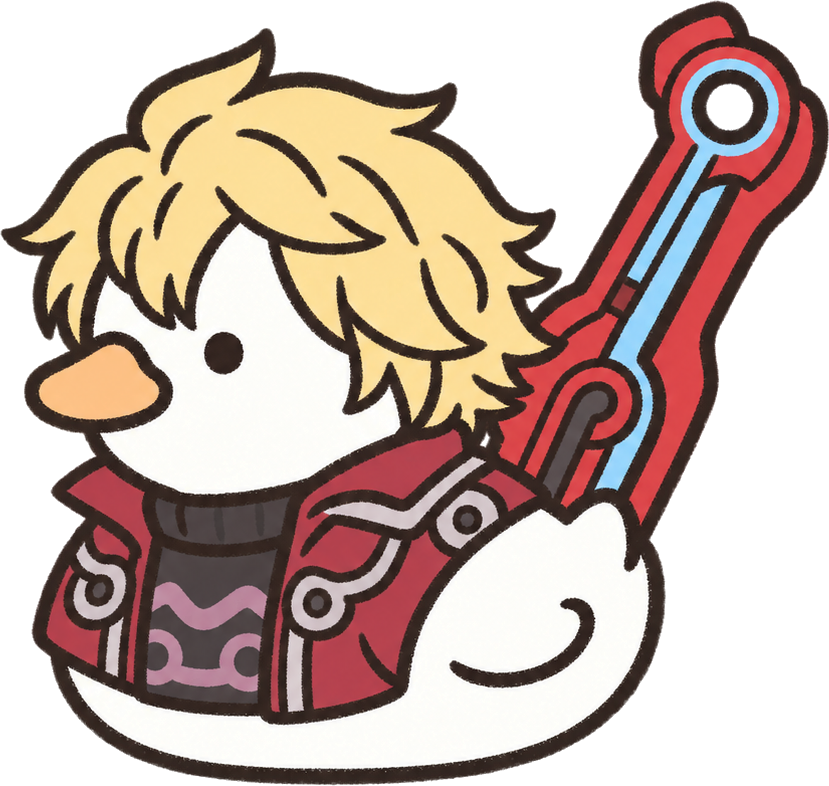
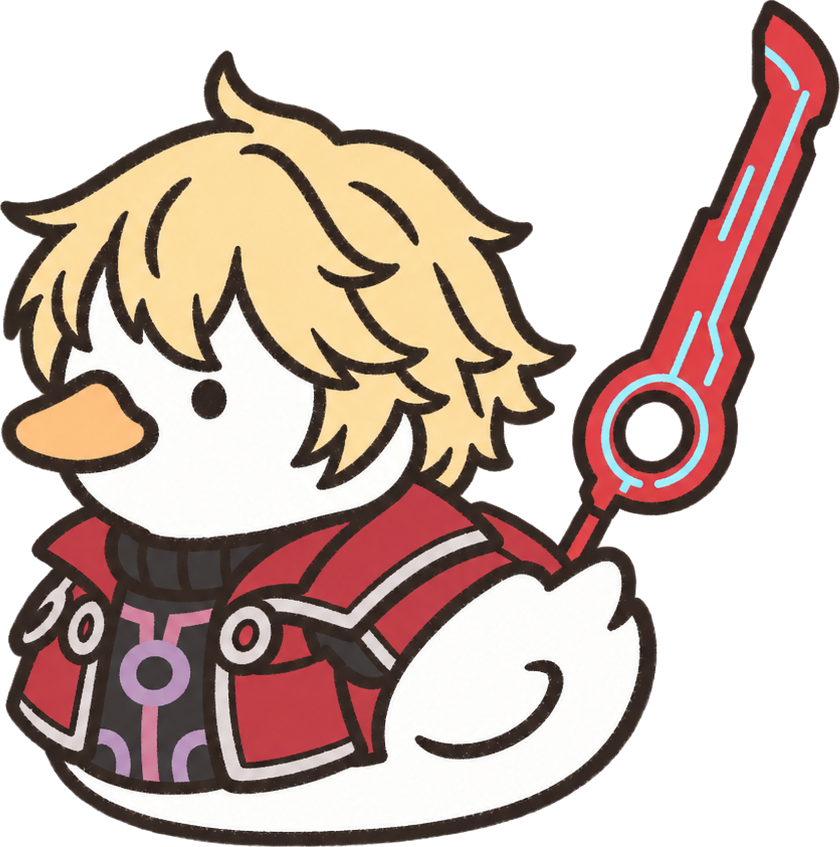
Eight ducks redrawn, Randy Marsh in Talon's place, and steadier pomodoro boxes on phones
Monokuma wears his real face, Denji's chainsaw points forward, Kid lost his guns, Kazuma
and EVE their swords, Nagisa's dango are pastel with line eyes, Shulk's Monado is the real
one. SSW Talon was too hard for the style, so Randy Marsh took his place. The pomodoro
number boxes are only redrawn when a number changes and no longer select their text on a
tap, which made phone screens jump about.

diff --git a/web/app.js b/web/app.js
@@ -875,6 +875,7 @@
       <div class="progress-text"><span>${mins} of ${d.goal} min today</span><span>${right}</span></div>`;
   }
 
+  let pomoMarkup = ''; // the pomodoro boxes as last drawn
   function renderPlantControls() {
     const t = S.timer;
     $('#idle-controls').hidden = !!t;
@@ -891,12 +892,15 @@
       if (S.pick.mode === 'pomo' && !document.activeElement?.matches('#pomo-pick input')) {
         const p = S.pick.pomo;
         // the number can be typed too, for a big jump (95 minutes is a lot of taps)
-        $('#pomo-pick').innerHTML = [['focus', 'Focus', 'min'], ['brk', 'Break', 'min'], ['rounds', 'Rounds', '']].map(([k, label, unit]) => `
+        const html = [['focus', 'Focus', 'min'], ['brk', 'Break', 'min'], ['rounds', 'Rounds', '']].map(([k, label, unit]) => `
           <div class="stepper"><span class="lbl">${label}</span>
             <button type="button" data-pomo="${k}" data-step="-1" aria-label="Less ${label.toLowerCase()}"${p[k] <= POMO_LIMITS[k][0] ? ' disabled' : ''}>−</button>
             <label class="val"><input type="text" inputmode="numeric" pattern="[0-9]*" maxlength="3" enterkeyhint="done" data-pomo-in="${k}" value="${p[k]}"
               aria-label="${label}${unit ? ' in minutes' : ''}, ${POMO_LIMITS[k][0]} to ${POMO_LIMITS[k][1]}">${unit ? `<small>${unit}</small>` : ''}</label>
             <button type="button" data-pomo="${k}" data-step="1" aria-label="More ${label.toLowerCase()}"${p[k] >= POMO_LIMITS[k][1] ? ' disabled' : ''}>+</button></div>`).join('');
+        // only redrawn when something changed: a redraw swaps the boxes for new ones, and a finger
+        // just landing on one would lose it (on a phone: the keyboard flashing open and shut)
+        if (html !== pomoMarkup) { $('#pomo-pick').innerHTML = html; pomoMarkup = html; }
       }
       const tags = S.settings.tags;
       $('#tag-chips').innerHTML = [{ name: '' }, ...tags].map((tag) => `
@@ -2942,15 +2946,15 @@
       const input = e.target.closest('[data-pomo-in]');
       if (!input) return;
       input.dataset.was = S.pick.pomo[input.dataset.pomoIn];
-      input.dataset.fresh = '1';
-      setTimeout(() => input.select(), 0);
+      input.dataset.fresh = '1'; // the first digit typed replaces the number
+      // shown selected on a computer; not on a phone, where selecting makes the screen jump about
+      if (matchMedia('(hover: hover)').matches) setTimeout(() => input.select(), 0);
     });
-    // all of it selected, so typing replaces it: on a tap, once it's over (letting go places the cursor)
-    $('#pomo-pick').addEventListener('click', (e) => {
+    $('#pomo-pick').addEventListener('beforeinput', (e) => {
       const input = e.target.closest('[data-pomo-in]');
       if (!input?.dataset.fresh) return;
       delete input.dataset.fresh;
-      input.setSelectionRange(0, input.value.length);
+      if (e.inputType.startsWith('insert') || e.inputType.startsWith('delete')) input.value = '';
     });
     const typed = (input, settle) => {
       const k = input.dataset.pomoIn, [low, high] = POMO_LIMITS[k], n = parseInt(input.value, 10);
@@ -2972,7 +2976,6 @@
     $('#pomo-pick').addEventListener('keydown', (e) => {
       const input = e.target.closest('[data-pomo-in]');
       if (!input) return;
-      delete input.dataset.fresh;
       if (e.key === 'Escape') input.value = input.dataset.was;
       if (e.key === 'Enter' || e.key === 'Escape') input.blur();
     });

diff --git a/web/kinds.js b/web/kinds.js
@@ -282,12 +282,6 @@ window.DAKKU_DUCKS = {
   "color": "#3D7A3D",
   "blurb": "Luck stat maxed out: this session will go perfectly."
  },
- "talon": {
-  "kanji": "刃",
-  "name": "Talon",
-  "color": "#2F6FD6",
-  "blurb": "In, out, done: an assassin of to-do lists."
- },
  "denji": {
   "kanji": "鋸",
   "name": "Denji",
@@ -299,5 +293,11 @@ window.DAKKU_DUCKS = {
   "name": "Kid",
   "color": "#D9B44A",
   "blurb": "Perfectly symmetrical study habits. Eight sessions, exactly."
+ },
+ "randy": {
+  "kanji": "父",
+  "name": "Randy",
+  "color": "#5B8FD6",
+  "blurb": "Geologist, Tegridy farmer, and a terrible influence on the pond."
  }
 };

diff --git a/scripts/duck.py b/scripts/duck.py
@@ -113,8 +113,15 @@ def components(mask, w, h, min_size=1):
 
 
 def find_eye(img, body):
-    """The eye: a small, solid, roundish dark dot on the white face. Thin dark strokes (outlines, an
-    angry eyebrow touching the eye) are worn away first, so only the dot's round core is left."""
+    """The eye: the likeliest of the eye-like dots (see find_eyes), or None."""
+    dots = find_eyes(img, body)
+    return dots[0] if dots else None
+
+
+def find_eyes(img, body):
+    """Every small, solid, roundish dark dot on white, likeliest first: the duck's eye, but also an
+    eye drawn on a hood or a plush it carries. Thin dark strokes (outlines, an angry eyebrow touching
+    the eye) are worn away first, so only each dot's round core is left."""
     w, h = img.size
     px = img.load()
     dark = Image.new("L", (w, h), 0)
@@ -131,7 +138,7 @@ def find_eye(img, body):
         for x in range(w):
             if core[x, y]:
                 mask[y * w + x] = 1
-    best = None
+    found = []
     for part in components(mask, w, h, max(4, int((0.012 * body) ** 2))):
         if len(part) > (0.13 * body) ** 2:
             continue
@@ -152,9 +159,10 @@ def find_eye(img, body):
                     q = px[x, y]
                     white += q[3] > 200 and min(q[:3]) > 215
         share = white / max(1, ring)
-        if share > 0.4 and (best is None or share > best[0]):
-            best = (share, cx, cy, 2 * r0)
-    return best and {"x": best[1], "y": best[2], "size": best[3]}
+        if share > 0.4:
+            found.append((share, {"x": cx, "y": cy, "size": 2 * r0}))
+    found.sort(key=lambda f: -f[0])
+    return [dot for _, dot in found]
 
 
 def beakish(p):
@@ -251,14 +259,20 @@ def describe(hsv):
 
 # ── finishing a picture ──────────────────────────────────────────────────────
 def face(img, body):
-    """Its eye and beak. When the outline measures far wider than the body (long hair, a ponytail,
-    something it carries), the eye's dot looks too small to be one, so if no eye turns up it's
-    looked for again as if the body were smaller."""
+    """Its eye and beak. The eye is the eye-like dot with a beak next to it (an outfit can carry dots
+    of its own: Monokuma's hood has an eye). When the outline measures far wider than the body (long
+    hair, a ponytail, something it carries), the eye's dot looks too small to be one, so if no eye
+    turns up it's looked for again as if the body were smaller."""
+    first = None
     for f in (1, 0.8, 0.65, 0.5):
-        eye = find_eye(img, body * f)
-        if eye:
-            return eye, find_beak(img, body * f, eye)
-    return None, None
+        for eye in find_eyes(img, body * f):
+            beak = find_beak(img, body * f, eye)
+            if beak:
+                return eye, beak
+            first = first or eye
+        if first:
+            break
+    return first, None
 
 
 def body_from_beak(beak):
